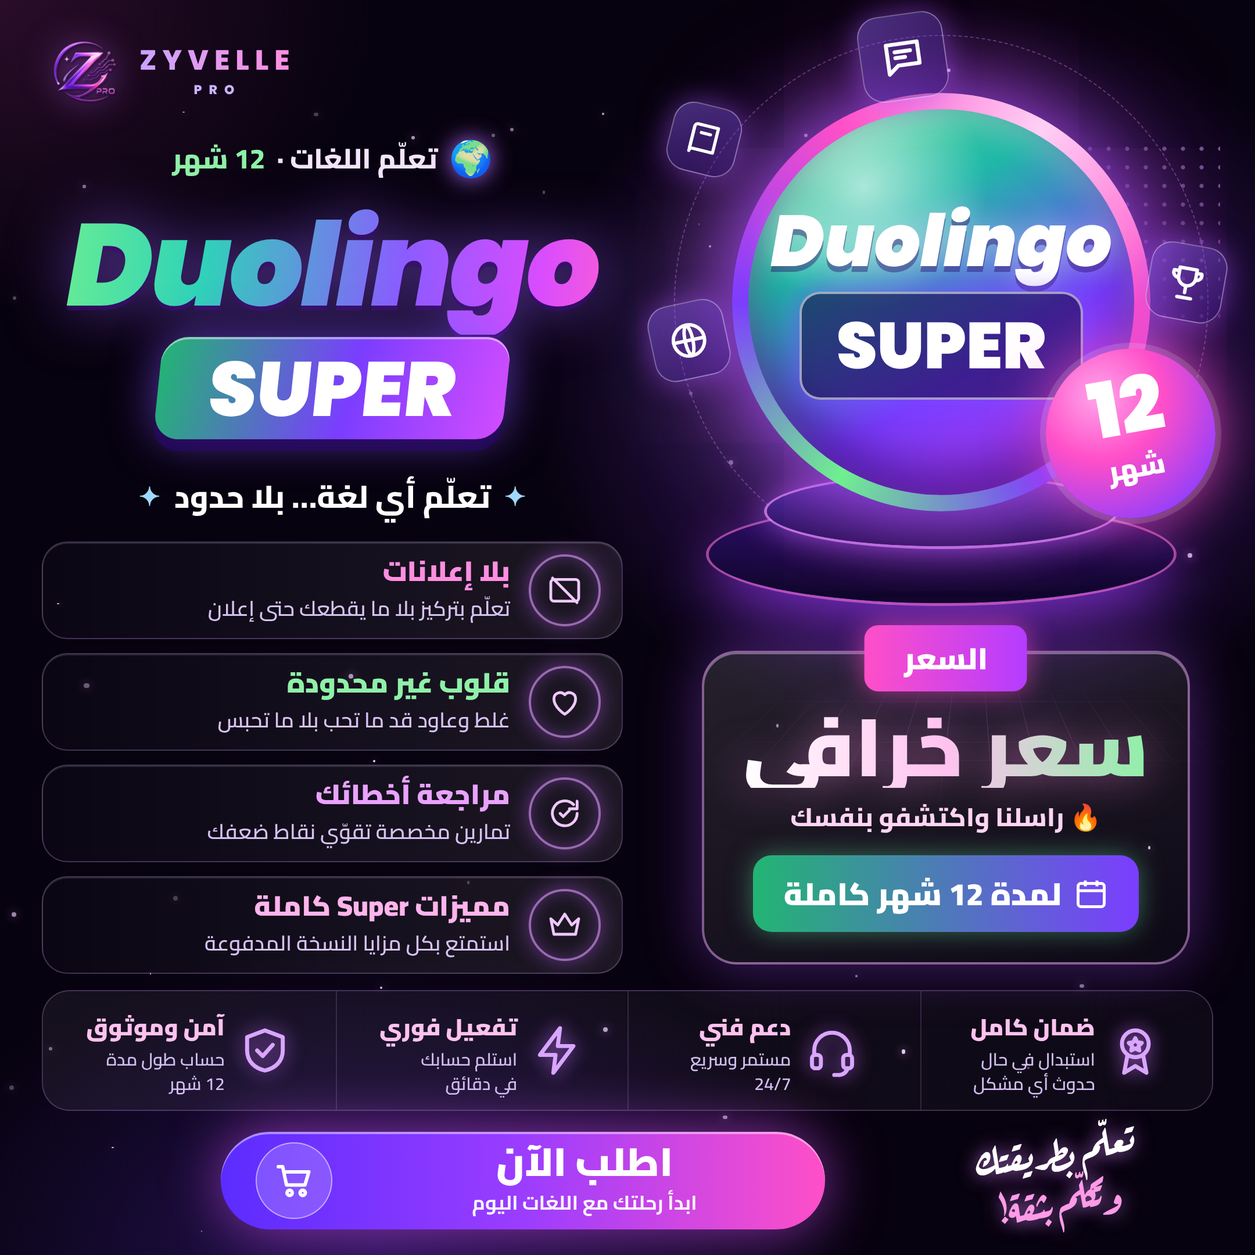
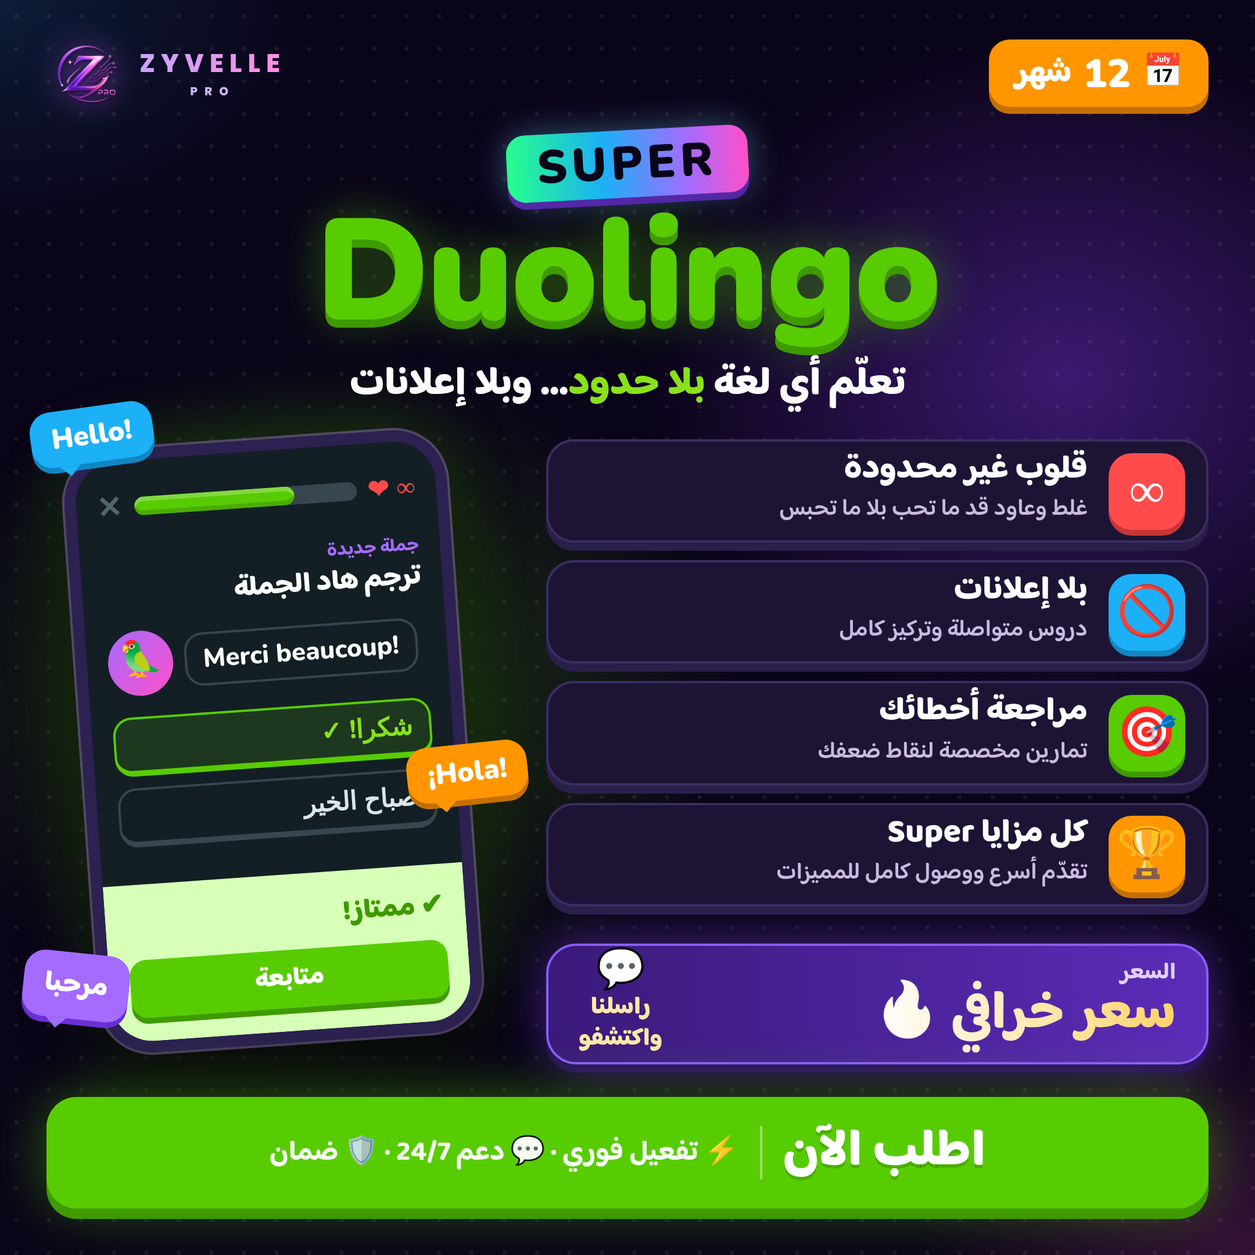
Super Duolingo post: product-themed playful design
Claude-Session: https://claude.ai/code/session_011giWJ4TSzj2MukxAk34QEQ

diff --git a/assets/posts/zpro-post-super-duolingo-12m.html b/assets/posts/zpro-post-super-duolingo-12m.html
@@ -1,127 +1,111 @@
 <!doctype html><html lang="ar" dir="ltr"><head><meta charset="utf-8">
-<link href="https://fonts.googleapis.com/css2?family=Cairo:wght@600;700;800;900&family=Poppins:ital,wght@0,800;0,900;1,800;1,900&family=Aref+Ruqaa:wght@700&display=swap" rel="stylesheet">
+<link href="https://fonts.googleapis.com/css2?family=Baloo+Bhaijaan+2:wght@600;700;800&family=Nunito:wght@800;900&family=Poppins:wght@800&display=swap" rel="stylesheet">
 <style>
 *{margin:0;box-sizing:border-box}html,body{width:1080px;height:1080px;overflow:hidden}
-body{background:#07020f;font-family:Cairo,sans-serif;color:#fff;position:relative}
+:root{--g:#58cc02;--gd:#3f9a00;--gl:#89e219;--b:#1cb0f6;--bd:#1186c2;--o:#ff9600;--r:#ff4b4b;--p:#a46bff;--pd:#6b2fd6;--pk:#ff4fc8}
+body{background:#0a0418;font-family:'Baloo Bhaijaan 2',sans-serif;color:#fff;position:relative}
 .A{position:absolute}.R{direction:rtl}
 .bg{inset:0;background:
- radial-gradient(520px 460px at 76% 30%,rgba(140,60,255,.5),transparent 70%),
- radial-gradient(360px 300px at 70% 26%,rgba(90,230,120,.16),transparent 70%),
- radial-gradient(460px 380px at 0 0,rgba(255,80,200,.14),transparent 70%),
- radial-gradient(600px 380px at 30% 100%,rgba(110,60,255,.28),transparent 70%)}
-.gw{inset:0;overflow:hidden}
-.grid{left:45%;right:-10%;top:330px;height:360px;background-image:linear-gradient(rgba(190,120,255,.18) 1px,transparent 1px),linear-gradient(90deg,rgba(190,120,255,.18) 1px,transparent 1px);background-size:46px 46px;transform:perspective(420px) rotateX(60deg);transform-origin:bottom;-webkit-mask-image:radial-gradient(closest-side,#000,transparent)}
-.dots{right:30px;top:120px;width:200px;height:160px;background-image:radial-gradient(rgba(220,160,255,.55) 1.6px,transparent 2px);background-size:16px 16px;-webkit-mask-image:linear-gradient(225deg,#000,transparent 70%)}
-.st{position:absolute;border-radius:50%;background:#f3d9ff;box-shadow:0 0 8px #d58bff}
+ radial-gradient(520px 420px at 25% 55%,rgba(88,204,2,.28),transparent 70%),
+ radial-gradient(520px 420px at 85% 30%,rgba(140,60,255,.38),transparent 70%),
+ radial-gradient(420px 320px at 100% 100%,rgba(255,79,200,.18),transparent 70%),
+ radial-gradient(400px 300px at 0 0,rgba(28,176,246,.14),transparent 70%)}
+.dots{inset:0;background-image:radial-gradient(rgba(255,255,255,.07) 1.5px,transparent 2px);background-size:28px 28px}
 /* header */
-.brand{left:36px;top:26px;display:flex;align-items:center;gap:10px}.brand img{width:74px;filter:drop-shadow(0 0 14px rgba(200,100,255,.6))}
-.brand b{font-family:Poppins;font-weight:800;letter-spacing:5px;font-size:24px;background:linear-gradient(90deg,#c9a4ff,#ff8ee0);-webkit-background-clip:text;color:transparent;display:block;line-height:1}
-.brand small{display:block;font-family:Poppins;font-weight:800;letter-spacing:6px;font-size:11px;color:#cdb2ff;margin-top:5px;text-align:center}
-/* left column */
-.col{left:36px;top:108px;width:500px;text-align:center}
-.pill{display:inline-flex;gap:10px;align-items:center;font-size:24px;font-weight:800;color:#f4e6ff}
-.pill .cap{font-size:30px;filter:drop-shadow(0 0 10px #b46bff)}
-.word{margin-top:4px;font-family:Poppins;font-style:italic;font-weight:900;font-size:100px;line-height:1.2;letter-spacing:-2px;
- background:linear-gradient(95deg,#6ff08f 0%,#2fd3b8 28%,#8b5cff 62%,#d84cff 85%,#ff5fd0);-webkit-background-clip:text;color:transparent;
- filter:drop-shadow(0 4px 0 rgba(60,10,120,.6)) drop-shadow(0 0 26px rgba(150,90,255,.55));padding:0 10px}
-.edu{display:inline-block;margin-top:2px;font-family:Poppins;font-weight:900;font-size:66px;line-height:1;padding:12px 44px 10px;border-radius:22px;
- background:linear-gradient(100deg,#22b573,#7b3dff 55%,#d14cff);box-shadow:0 10px 0 rgba(40,8,100,.75),0 0 40px rgba(130,80,255,.65),inset 0 2px 0 rgba(255,255,255,.45);transform:skewX(-6deg)}
-.tag{margin-top:24px;font-size:27px;font-weight:800;display:flex;gap:12px;justify-content:center;align-items:center}
-.tag i{font-style:normal;color:#9fd8ff;font-size:22px}
-.feats{left:36px;top:466px;width:500px;display:flex;flex-direction:column;gap:12px}
-.f{height:84px;display:flex;align-items:center;gap:16px;padding:0 18px;border-radius:22px;
- background:linear-gradient(270deg,rgba(255,255,255,.09),rgba(255,255,255,.02));border:1.5px solid rgba(210,160,255,.28);box-shadow:inset 0 1px 0 rgba(255,255,255,.12)}
-.f svg{flex:none;width:62px;height:62px;padding:13px;border-radius:50%;border:2px solid rgba(220,150,255,.65);box-shadow:0 0 18px rgba(200,100,255,.45),inset 0 0 14px rgba(200,100,255,.3);stroke:#f0c8ff;fill:none;stroke-width:1.8;stroke-linecap:round;stroke-linejoin:round}
-.f .tx{flex:1;text-align:right}
-.f b{display:block;font-size:24px;font-weight:900;line-height:1.25}
-.f span{font-size:18px;color:#d6c2f2;font-weight:600}
-.c1 b{color:#ff8ee0}.c2 b{color:#8ff0a8}.c3 b{color:#e9a2ff}.c4 b{color:#ffb4ec}
-/* emblem */
-.emb{left:590px;top:60px;width:440px;height:470px}
-.halo{left:40px;top:20px;width:360px;height:360px;border-radius:50%;background:conic-gradient(from 210deg,#6ff08f,#7b3dff,#ff4fc8,#ffd0f5,#ff4fc8,#7b3dff,#6ff08f);box-shadow:0 0 70px rgba(170,80,255,.9),0 0 140px rgba(255,79,200,.35)}
-.disc{left:54px;top:34px;width:332px;height:332px;border-radius:50%;
- background:radial-gradient(circle at 30% 20%,rgba(255,255,255,.6),transparent 30%),linear-gradient(150deg,#4fe08a 0%,#1fb8a8 32%,#7b3dff 64%,#c03cf0 100%);
- box-shadow:inset 0 -22px 44px rgba(40,0,90,.6),inset 0 12px 26px rgba(255,255,255,.3);display:flex;flex-direction:column;align-items:center;justify-content:center}
-.disc .w{font-family:Poppins;font-style:italic;font-weight:900;font-size:62px;line-height:1;text-shadow:0 5px 0 rgba(40,0,100,.4),0 0 24px rgba(255,255,255,.4)}
-.disc .e{margin-top:12px;font-family:Poppins;font-weight:900;font-size:56px;padding:2px 30px;border-radius:18px;background:rgba(20,10,70,.6);border:2px solid rgba(255,255,255,.55);box-shadow:0 0 20px rgba(120,80,255,.6)}
-.ring{left:-10px;top:-30px;width:460px;height:460px;border-radius:50%;border:1.5px dashed rgba(220,150,255,.35)}
-.ped1{left:70px;top:350px;width:300px;height:60px;border-radius:50%;background:linear-gradient(180deg,#4a2aa0,#1d0b4c);box-shadow:0 0 0 2.5px rgba(230,150,255,.7),0 0 30px rgba(190,90,255,.8)}
-.ped2{left:20px;top:375px;width:400px;height:84px;border-radius:50%;background:linear-gradient(180deg,#2a1068,#0d0526);box-shadow:0 0 0 2.5px rgba(255,120,220,.55),0 16px 50px rgba(160,60,255,.7)}
-.chip{border-radius:18px;display:grid;place-items:center;background:linear-gradient(150deg,rgba(150,100,255,.45),rgba(60,20,140,.35));border:1.5px solid rgba(255,255,255,.35);box-shadow:0 0 26px rgba(170,80,255,.55)}
-.chip svg{width:56%;height:56%;stroke:#fff;fill:none;stroke-width:2;stroke-linecap:round;stroke-linejoin:round}
-.years{left:900px;top:300px;width:146px;height:146px;border-radius:50%;text-align:center;transform:rotate(-10deg);
- background:radial-gradient(circle at 35% 25%,#ffa6ea,#ff4fc8 38%,#8b3dff 85%);box-shadow:0 0 0 5px rgba(255,255,255,.14),0 0 50px rgba(255,79,200,.85);display:flex;flex-direction:column;align-items:center;justify-content:center}
-.years b{font-family:Poppins;font-size:66px;font-weight:900;line-height:.9}
-.years span{font-size:24px;font-weight:900}
-/* price */
-.price{left:604px;top:560px;width:420px;height:270px;border-radius:30px;text-align:center;
- background:linear-gradient(160deg,rgba(255,255,255,.12),rgba(255,255,255,.03));border:2px solid rgba(240,170,255,.5);box-shadow:0 0 50px rgba(170,80,255,.4),inset 0 1px 0 rgba(255,255,255,.35)}
-.ptag{position:absolute;left:50%;top:-24px;transform:translateX(-50%);font-size:26px;font-weight:900;padding:4px 34px;border-radius:12px;background:linear-gradient(90deg,#ff4fc8,#b43cff);box-shadow:0 0 24px rgba(255,79,200,.6)}
-.amount{margin-top:38px;display:flex;justify-content:center;align-items:baseline;gap:12px}
-.amount b{font-family:Poppins;font-weight:900;font-size:124px;line-height:1;text-shadow:0 0 28px rgba(255,255,255,.35)}
-.amount span{font-size:44px;font-weight:900;color:#ff7ad9;direction:rtl}
-.dur{display:inline-flex;align-items:center;gap:10px;margin-top:14px;font-size:27px;font-weight:900;padding:8px 26px;border-radius:16px;background:linear-gradient(90deg,#22b573,#7b3dff);box-shadow:0 0 22px rgba(90,200,140,.5)}
-.dur svg{width:30px;height:30px;stroke:#fff;fill:none;stroke-width:2}
-.old{position:absolute;right:22px;top:22px;font-size:17px;font-weight:800;color:#ffd6f4;background:rgba(255,79,200,.18);border:1px solid rgba(255,130,220,.5);padding:2px 12px;border-radius:10px}
-/* trust */
-.trust{left:36px;right:36px;top:852px;height:104px;border-radius:24px;display:grid;grid-template-columns:repeat(4,1fr);
- background:linear-gradient(90deg,rgba(255,255,255,.06),rgba(255,255,255,.03));border:1.5px solid rgba(210,160,255,.25)}
-.t{display:flex;align-items:center;justify-content:center;gap:12px;border-left:1px solid rgba(210,160,255,.18)}
-.t:last-child{border-left:none}
-.t svg{flex:none;width:46px;height:46px;stroke:#d9a6ff;fill:none;stroke-width:1.8;stroke-linecap:round;stroke-linejoin:round;filter:drop-shadow(0 0 8px rgba(200,110,255,.8))}
-.t .tx{text-align:right}.t b{display:block;font-size:20px;font-weight:900;color:#ffc2ef}.t span{font-size:15px;color:#d2bff0;font-weight:600;line-height:1.35;display:block}
-/* cta */
-.cta{left:190px;top:974px;width:520px;height:84px;border-radius:42px;display:flex;align-items:center;gap:20px;padding:0 10px 0 30px;
- background:linear-gradient(90deg,#5b2cff,#9b3dff 50%,#ff4fc8);box-shadow:0 0 50px rgba(220,80,255,.6),inset 0 2px 0 rgba(255,255,255,.45)}
-.cart{width:66px;height:66px;border-radius:50%;background:rgba(255,255,255,.18);border:1.5px solid rgba(255,255,255,.5);display:grid;place-items:center}
-.cart svg{width:36px;height:36px;stroke:#fff;fill:none;stroke-width:2;stroke-linecap:round;stroke-linejoin:round}
-.cta .tx{flex:1;text-align:center}.cta b{display:block;font-size:34px;font-weight:900;line-height:1.1}.cta span{font-size:17px;font-weight:700;opacity:.95}
-.slogan{left:770px;top:968px;width:280px;text-align:center;font-family:'Aref Ruqaa',serif;font-size:34px;line-height:1.25;transform:rotate(-5deg);color:#fff;text-shadow:0 0 16px rgba(220,140,255,.8)}
-.slogan em{font-style:normal;color:#ff9be6}
-.amount{margin-top:46px}.hot{font-family:Cairo!important;font-size:70px!important;font-weight:900;background:linear-gradient(90deg,#fff,#ffc2ef,#8ff0a8);-webkit-background-clip:text;color:transparent;text-shadow:none!important;filter:drop-shadow(0 0 18px rgba(255,140,230,.5))}.ask{margin-top:4px;font-size:22px;font-weight:800;color:#ffd6f4}.dur{margin-top:12px!important}</style></head><body>
-<div class="A bg"></div><div class="A gw"><div class="A grid"></div></div><div class="A dots"></div><div id="st"></div>
+.brand{left:40px;top:30px;display:flex;align-items:center;gap:10px}.brand img{width:70px;filter:drop-shadow(0 0 14px rgba(200,100,255,.6))}
+.brand b{font-family:Poppins;font-weight:800;letter-spacing:5px;font-size:22px;background:linear-gradient(90deg,#c9a4ff,#ff8ee0);-webkit-background-clip:text;color:transparent;display:block;line-height:1}
+.brand small{display:block;font-family:Poppins;letter-spacing:6px;font-size:10px;color:#cdb2ff;margin-top:5px;text-align:center}
+.months{right:40px;top:34px;display:flex;align-items:center;gap:10px;font-size:28px;font-weight:800;padding:6px 22px 4px;border-radius:18px;background:var(--o);box-shadow:0 6px 0 #c46f00}
+.months b{font-family:Nunito;font-weight:900;font-size:34px}
+/* headline */
+.head{left:0;right:0;top:112px;text-align:center}
+.super{display:inline-block;font-family:Nunito;font-weight:900;font-size:40px;letter-spacing:4px;padding:2px 26px;border-radius:16px;
+ background:linear-gradient(90deg,#26ff8c,#1cb0f6 40%,#a46bff 75%,#ff4fc8);color:#0a0418;box-shadow:0 6px 0 rgba(90,40,180,.9),0 0 30px rgba(120,200,255,.4);transform:rotate(-3deg)}
+.word{font-family:Nunito;font-weight:900;font-size:124px;line-height:1.05;color:var(--g);letter-spacing:-2px;
+ text-shadow:0 7px 0 var(--gd),0 0 40px rgba(88,204,2,.45)}
+.sub{font-size:34px;font-weight:800;margin-top:2px}
+.sub span{color:var(--gl)}
+/* phone */
+.phone{left:70px;top:378px;width:330px;height:520px;border-radius:46px;background:#1a1230;border:10px solid #2c2150;box-shadow:0 0 0 2px rgba(200,150,255,.35),0 30px 60px rgba(0,0,0,.6),0 0 60px rgba(88,204,2,.25);overflow:hidden;transform:rotate(-4deg)}
+.scr{position:absolute;inset:0;background:#131f24;padding:22px 18px}
+.top{display:flex;align-items:center;gap:10px}
+.x{color:#52656d;font-size:26px;font-family:Nunito;font-weight:900}
+.prog{flex:1;height:16px;border-radius:10px;background:#37464f;overflow:hidden}.prog i{display:block;height:100%;width:72%;background:var(--g);border-radius:10px;box-shadow:inset 0 -4px 0 rgba(0,0,0,.15),inset 0 4px 0 rgba(255,255,255,.25)}
+.hearts{color:var(--r);font-family:Nunito;font-weight:900;font-size:22px;display:flex;align-items:center;gap:2px}
+.q{direction:rtl;margin-top:24px;font-size:24px;font-weight:800;line-height:1.3}
+.q small{display:block;font-size:16px;color:#a46bff;font-weight:700}
+.bub{margin-top:14px;direction:ltr;display:flex;gap:10px;align-items:center}
+.av{width:56px;height:56px;border-radius:50%;background:linear-gradient(135deg,#a46bff,#ff4fc8);display:grid;place-items:center;font-size:30px}
+.say{border:2px solid #37464f;border-radius:16px;padding:6px 14px;font-family:Nunito;font-weight:800;font-size:22px}
+.opts{margin-top:18px;display:flex;flex-direction:column;gap:10px}
+.op{border:2px solid #37464f;border-bottom-width:5px;border-radius:16px;padding:7px 14px;font-family:Nunito;font-weight:800;font-size:22px;color:#dce6ea}
+.op.ok{border-color:var(--g);background:rgba(88,204,2,.15);color:var(--gl)}
+.check{position:absolute;left:0;right:0;bottom:0;padding:16px 18px 20px;background:#d7ffb8;direction:rtl}
+.check b{display:block;color:var(--gd);font-size:24px;font-weight:800}
+.check .btn{margin-top:8px;text-align:center;background:var(--g);box-shadow:0 5px 0 var(--gd);border-radius:14px;padding:6px;font-size:22px;font-weight:800}
+/* floating bubbles */
+.fb{font-family:Nunito;font-weight:900;font-size:24px;padding:8px 18px;border-radius:18px;color:#fff;white-space:nowrap}
+.fb::after{content:"";position:absolute;bottom:-9px;left:22px;border:9px solid transparent;border-top-color:inherit;border-bottom:0}
+.b1{left:26px;top:350px;background:var(--b);box-shadow:0 5px 0 var(--bd);border-color:var(--b);transform:rotate(-8deg)}
+.b2{left:322px;top:768px;background:var(--pk);box-shadow:0 5px 0 #c12f95;transform:rotate(7deg)}
+.b3{left:350px;top:640px;background:var(--o);box-shadow:0 5px 0 #c46f00;transform:rotate(-6deg)}
+.b4{left:20px;top:820px;background:var(--p);box-shadow:0 5px 0 var(--pd);transform:rotate(6deg);font-family:'Baloo Bhaijaan 2';font-weight:800}
+.b1::after{border-top-color:var(--b)}.b2::after{border-top-color:var(--pk)}.b3::after{border-top-color:var(--o)}.b4::after{border-top-color:var(--p)}
+/* features */
+.feats{left:470px;top:378px;width:570px;display:flex;flex-direction:column;gap:15px}
+.f{display:flex;align-items:center;gap:18px;padding:9px 18px;border-radius:24px;background:#1d1435;border:2.5px solid #3b2d63;box-shadow:0 7px 0 #2a1f4a}
+.f .ic{flex:none;width:66px;height:66px;border-radius:20px;display:grid;place-items:center;font-family:Nunito;font-weight:900;font-size:42px;line-height:1}
+.f b{display:block;font-size:28px;font-weight:800;line-height:1.15}
+.f span{font-size:20px;color:#c9badf;font-weight:600}
+.i1{background:var(--r);box-shadow:0 5px 0 #c73636}.i2{background:var(--b);box-shadow:0 5px 0 var(--bd)}.i3{background:var(--g);box-shadow:0 5px 0 var(--gd)}.i4{background:var(--o);box-shadow:0 5px 0 #c46f00}
+/* bottom */
+.price{left:470px;top:812px;width:570px;height:104px;border-radius:26px;display:flex;align-items:center;justify-content:space-between;padding:0 26px;
+ background:linear-gradient(90deg,#3a1a7a,#5b2cb8);border:2.5px solid #8a5cff;box-shadow:0 7px 0 #2a1060,0 0 40px rgba(140,80,255,.45)}
+.price .l small{display:block;font-size:20px;color:#e2d0ff;font-weight:700;line-height:1}
+.price .l b{font-size:46px;font-weight:800;line-height:1.15;background:linear-gradient(90deg,#fff,#ffd36b);-webkit-background-clip:text;color:transparent}
+.price .r{font-size:21px;font-weight:800;text-align:center;line-height:1.3;color:#ffe9a8}
+.price .r i{font-style:normal;font-size:34px;display:block;line-height:1}
+.cta{left:40px;right:40px;top:944px;height:96px;border-radius:26px;display:flex;align-items:center;justify-content:center;gap:18px;
+ background:var(--g);box-shadow:0 9px 0 var(--gd),0 0 50px rgba(88,204,2,.45)}
+.cta b{font-size:44px;font-weight:800;text-shadow:0 3px 0 rgba(0,0,0,.15)}
+.cta span{font-size:24px;font-weight:700;opacity:.95}
+.cta .sep{width:2px;height:46px;background:rgba(255,255,255,.4)}
+.trust{left:40px;right:40px;top:1046px;display:none}
+.spark{font-size:22px;color:#fff;opacity:.8}
+</style></head><body>
+<div class="A bg"></div><div class="A dots"></div>
 <div class="A brand"><img src="../zpro/zpro-logo-3d-transparent.png"><div><b>ZYVELLE</b><small>PRO</small></div></div>
+<div class="A months R">📅 <b>12</b> شهر</div>
 
-<div class="A col R">
- <div class="pill"><span class="cap">🌍</span>تعلّم اللغات · <span style="color:#8ff0a8">12 شهر</span></div>
- <div class="word" dir="ltr">Duolingo</div>
- <div class="edu" dir="ltr">SUPER</div>
- <div class="tag"><i>✦</i>تعلّم أي لغة… بلا حدود<i>✦</i></div>
+<div class="A head">
+ <div class="super">SUPER</div>
+ <div class="word">Duolingo</div>
+ <div class="sub R">تعلّم أي لغة <span>بلا حدود</span>… وبلا إعلانات</div>
 </div>
+
+<div class="A phone"><div class="scr">
+ <div class="top"><span class="x">✕</span><div class="prog"><i></i></div><span class="hearts">❤ ∞</span></div>
+ <div class="q R"><small>جملة جديدة</small>ترجم هاد الجملة</div>
+ <div class="bub"><div class="av">🦜</div><div class="say">Merci beaucoup!</div></div>
+ <div class="opts R"><div class="op ok">شكرا! ✓</div><div class="op">صباح الخير</div></div>
+ <div class="check"><b>✔ ممتاز!</b><div class="btn">متابعة</div></div>
+</div></div>
+<div class="A fb b1">Hello!</div>
+
+<div class="A fb b3">¡Hola!</div>
+<div class="A fb b4">مرحبا</div>
 
 <div class="A feats R">
- <div class="f c1"><svg viewBox="0 0 24 24"><rect x="3" y="5" width="18" height="14" rx="2"/><path d="M4 4l16 16"/></svg><div class="tx"><b>بلا إعلانات</b><span>تعلّم بتركيز بلا ما يقطعك حتى إعلان</span></div></div>
- <div class="f c2"><svg viewBox="0 0 24 24"><path d="M12 20s-7-4.4-7-10a4 4 0 017-2.6A4 4 0 0119 10c0 5.6-7 10-7 10z"/></svg><div class="tx"><b>قلوب غير محدودة</b><span>غلط وعاود قد ما تحب بلا ما تحبس</span></div></div>
- <div class="f c3"><svg viewBox="0 0 24 24"><path d="M20 12a8 8 0 11-2.3-5.7"/><path d="M20 4v5h-5"/><path d="M9 12l2 2 4-4"/></svg><div class="tx"><b>مراجعة أخطائك</b><span>تمارين مخصصة تقوّي نقاط ضعفك</span></div></div>
- <div class="f c4"><svg viewBox="0 0 24 24"><path d="M3 8l4.5 4L12 5l4.5 7L21 8l-2 10H5z"/></svg><div class="tx"><b>مميزات Super كاملة</b><span>استمتع بكل مزايا النسخة المدفوعة</span></div></div>
+ <div class="f"><div class="ic i1">∞</div><div><b>قلوب غير محدودة</b><span>غلط وعاود قد ما تحب بلا ما تحبس</span></div></div>
+ <div class="f"><div class="ic i2">🚫</div><div><b>بلا إعلانات</b><span>دروس متواصلة وتركيز كامل</span></div></div>
+ <div class="f"><div class="ic i3">🎯</div><div><b>مراجعة أخطائك</b><span>تمارين مخصصة لنقاط ضعفك</span></div></div>
+ <div class="f"><div class="ic i4">🏆</div><div><b>كل مزايا Super</b><span>تقدّم أسرع ووصول كامل للمميزات</span></div></div>
 </div>
-
-<div class="A emb">
- <div class="A ring"></div>
- <div class="A ped2"></div><div class="A ped1"></div>
- <div class="A halo"></div><div class="A disc"><div class="w">Duolingo</div><div class="e">SUPER</div></div>
- <div class="A chip" style="left:150px;top:-48px;width:74px;height:74px;transform:rotate(-8deg)"><svg viewBox="0 0 24 24"><path d="M4 5h16v11H9l-5 4z"/><path d="M8 9h8M8 12h5"/></svg></div>
- <div class="A chip" style="left:-30px;top:200px;width:66px;height:66px;transform:rotate(-12deg)"><svg viewBox="0 0 24 24"><circle cx="12" cy="12" r="9"/><path d="M3 12h18M12 3c3 3 3 15 0 18M12 3c-3 3-3 15 0 18"/></svg></div>
- <div class="A chip" style="left:398px;top:150px;width:66px;height:66px;transform:rotate(10deg)"><svg viewBox="0 0 24 24"><path d="M7 4h10v5a5 5 0 01-10 0z"/><path d="M7 6H4a3 3 0 003 4M17 6h3a3 3 0 01-3 4M12 14v4M8 21h8"/></svg></div>
- <div class="A chip" style="left:-14px;top:30px;width:60px;height:60px;transform:rotate(14deg)"><svg viewBox="0 0 24 24"><path d="M4 5a2 2 0 012-2h13v16H6a2 2 0 00-2 2z"/><path d="M4 19V5M9 8h6"/></svg></div>
-</div>
-<div class="A years R"><b>12</b><span>شهر</span></div>
 
 <div class="A price R">
- <div class="ptag">السعر</div>
- <div class="amount"><b class="hot">سعر خرافي</b></div><div class="ask">🔥 راسلنا واكتشفو بنفسك</div>
- <div class="dur"><svg viewBox="0 0 24 24"><rect x="3" y="5" width="18" height="16" rx="2"/><path d="M3 10h18M8 3v4M16 3v4"/></svg>لمدة 12 شهر كاملة</div>
+ <div class="l"><small>السعر</small><b>سعر خرافي 🔥</b></div>
+ <div class="r"><i>💬</i>راسلنا<br>واكتشفو</div>
 </div>
 
-<div class="A trust R">
- <div class="t"><svg viewBox="0 0 24 24"><circle cx="12" cy="9" r="6"/><path d="M8.5 14L7 22l5-3 5 3-1.5-8"/><path d="M12 6.5l.9 1.8 2 .3-1.45 1.4.35 2-1.8-.95-1.8.95.35-2L9.1 8.6l2-.3z"/></svg><div class="tx"><b>ضمان كامل</b><span>استبدال في حال<br>حدوث أي مشكل</span></div></div>
- <div class="t"><svg viewBox="0 0 24 24"><path d="M4 14v-2a8 8 0 0116 0v2"/><rect x="3" y="14" width="4" height="6" rx="1.5"/><rect x="17" y="14" width="4" height="6" rx="1.5"/><path d="M19 20a4 4 0 01-4 3h-2"/></svg><div class="tx"><b>دعم فني</b><span>مستمر وسريع<br>24/7</span></div></div>
- <div class="t"><svg viewBox="0 0 24 24"><path d="M13 2L4 14h7l-1 8 9-12h-7z"/></svg><div class="tx"><b>تفعيل فوري</b><span>استلم حسابك<br>في دقائق</span></div></div>
- <div class="t"><svg viewBox="0 0 24 24"><path d="M12 3l8 3v6c0 5-3.5 8-8 9-4.5-1-8-4-8-9V6z"/><path d="M8.5 12l2.5 2.5 4.5-5"/></svg><div class="tx"><b>آمن وموثوق</b><span>حساب طول مدة<br>12 شهر</span></div></div>
-</div>
-
-<div class="A cta R"><div class="tx"><b>اطلب الآن</b><span>ابدأ رحلتك مع اللغات اليوم</span></div><div class="cart"><svg viewBox="0 0 24 24"><path d="M3 4h2.5l2.2 10.5h10.6L20.5 7H7"/><circle cx="9.5" cy="19" r="1.5"/><circle cx="17" cy="19" r="1.5"/></svg></div></div>
-<div class="A slogan R">تعلّم بطريقتك<br><em>وتكلّم بثقة!</em></div>
-<script>let s=13;const r=()=>(s=(s*9301+49297)%233280)/233280;const st=document.getElementById('st');
-for(let i=0;i<55;i++){const e=document.createElement('i');e.className='st';const z=1+r()*3.2;e.style.cssText=`left:${r()*1080}px;top:${r()*1080}px;width:${z}px;height:${z}px;opacity:${.25+r()*.7}`;st.appendChild(e)}</script>
+<div class="A cta R"><b>اطلب الآن</b><div class="sep"></div><span>⚡ تفعيل فوري · 💬 دعم 24/7 · 🛡 ضمان</span></div>
 </body></html>
